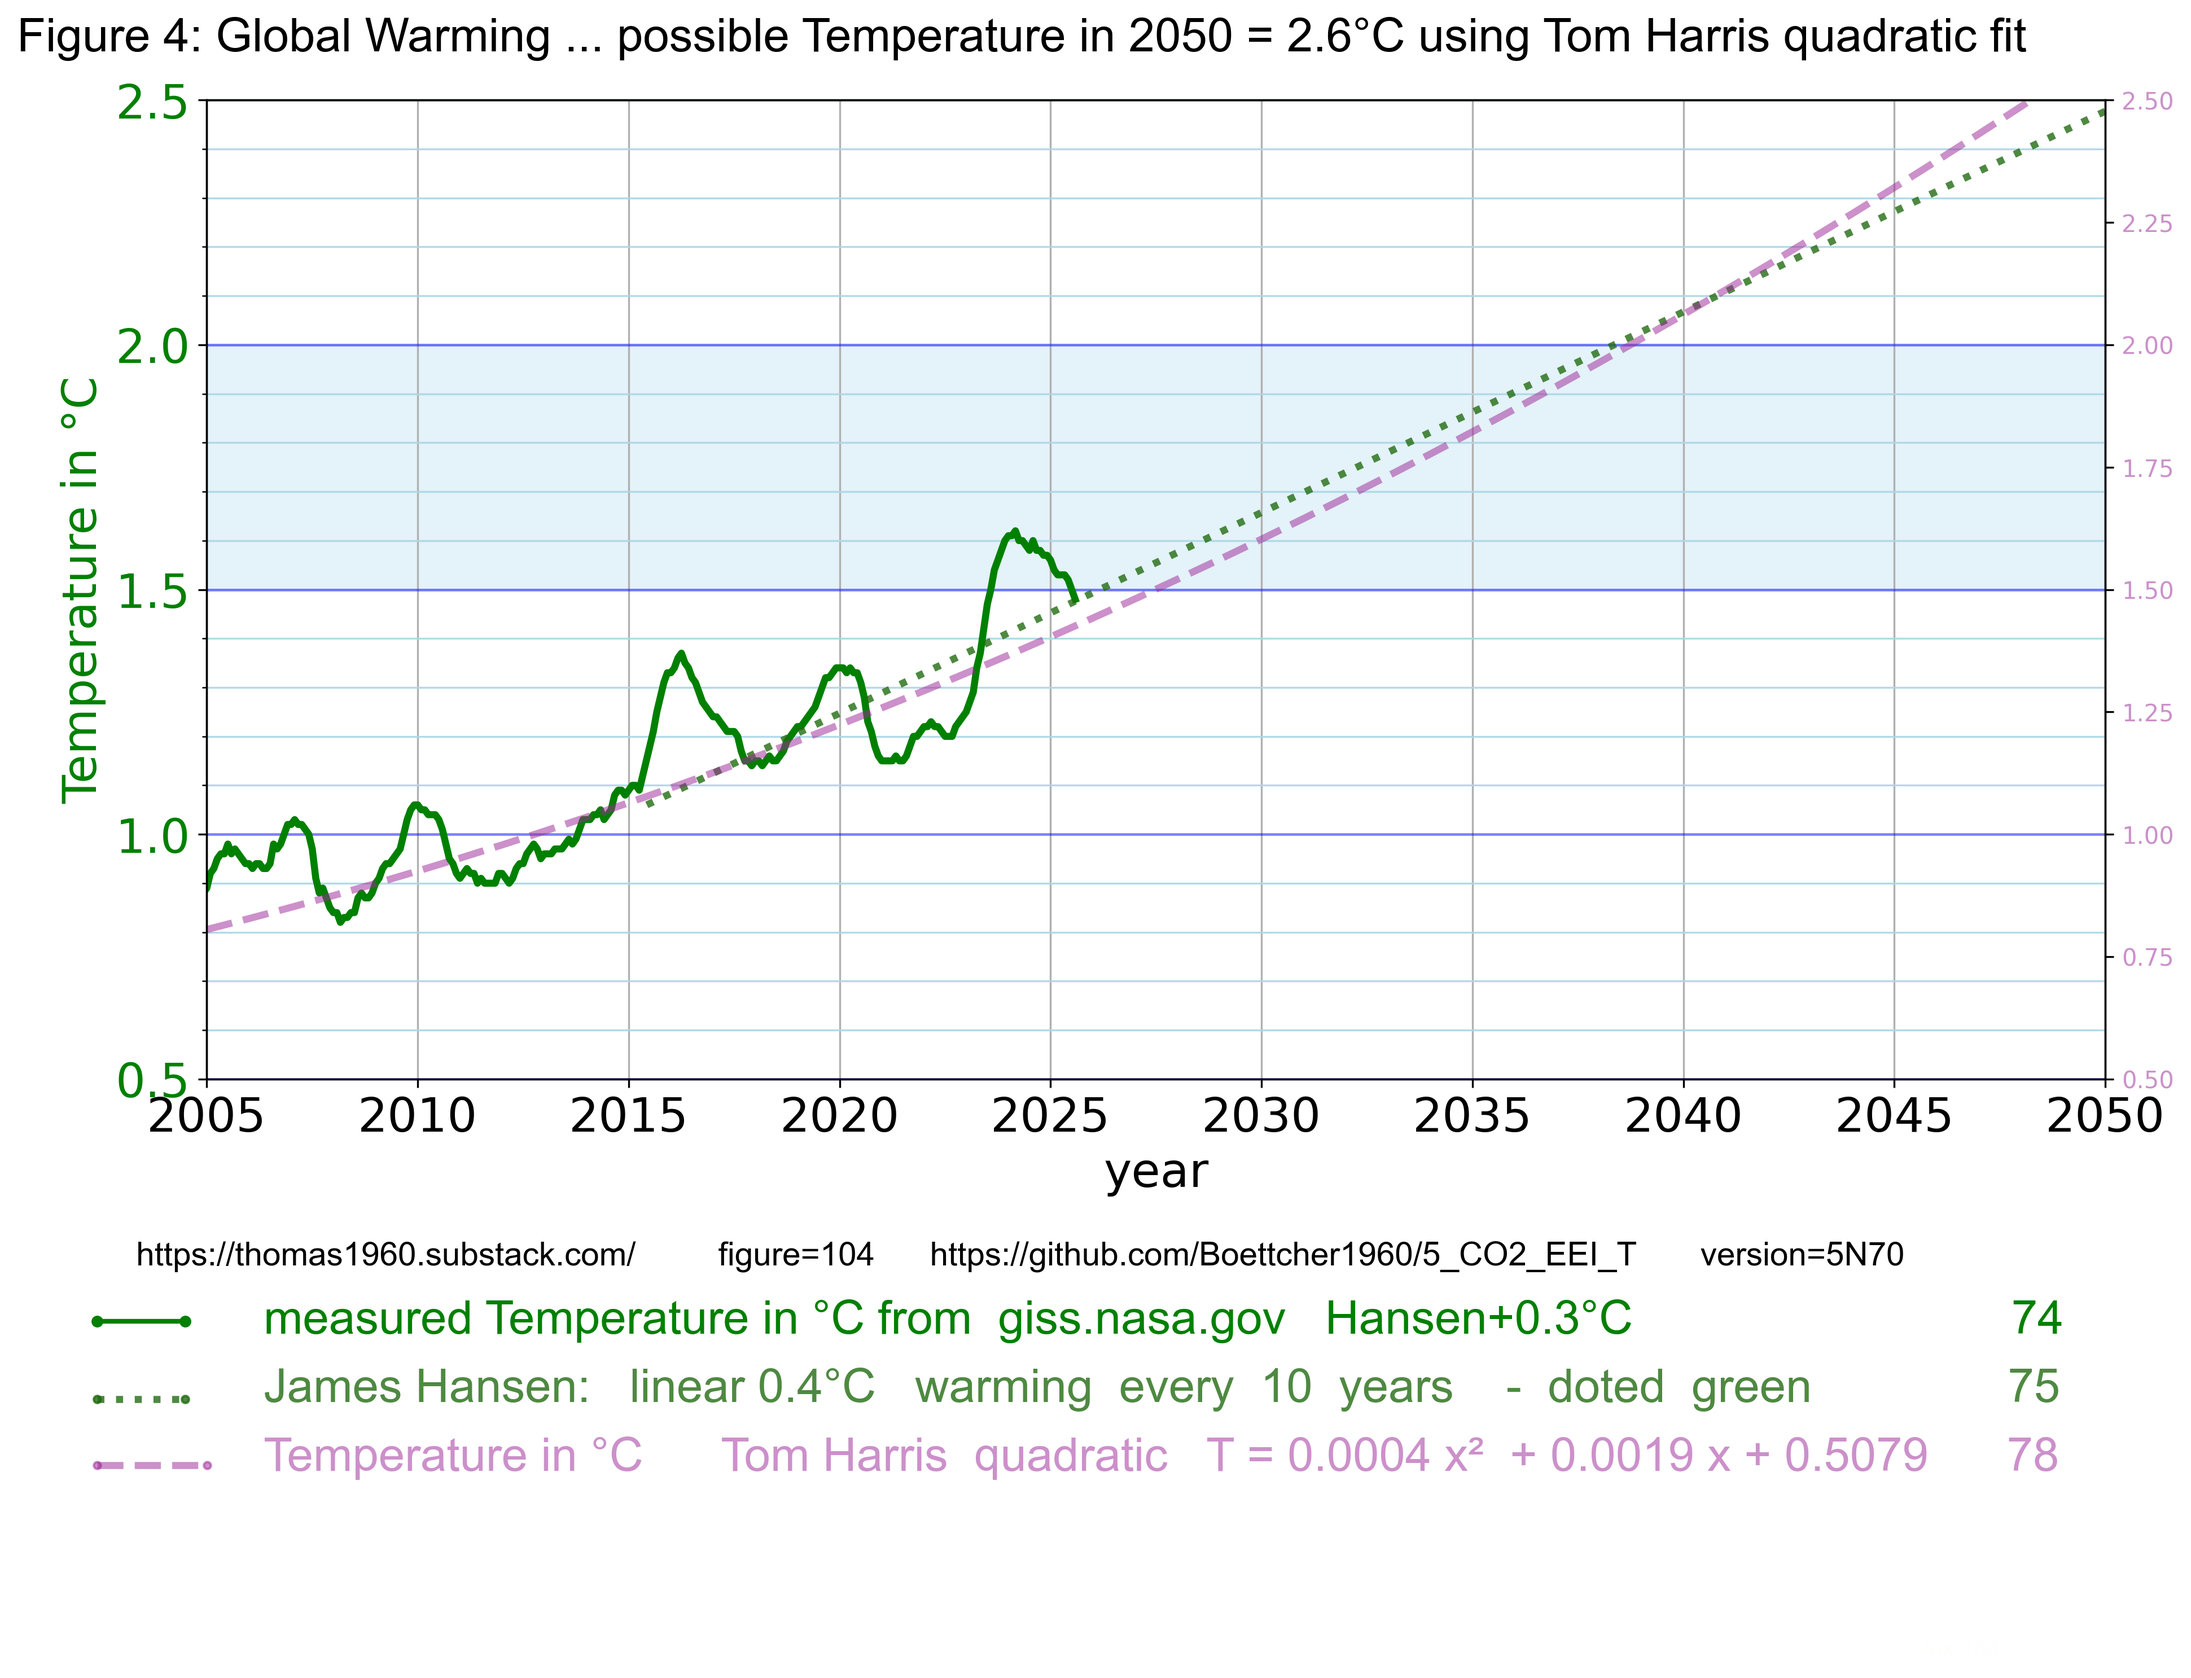
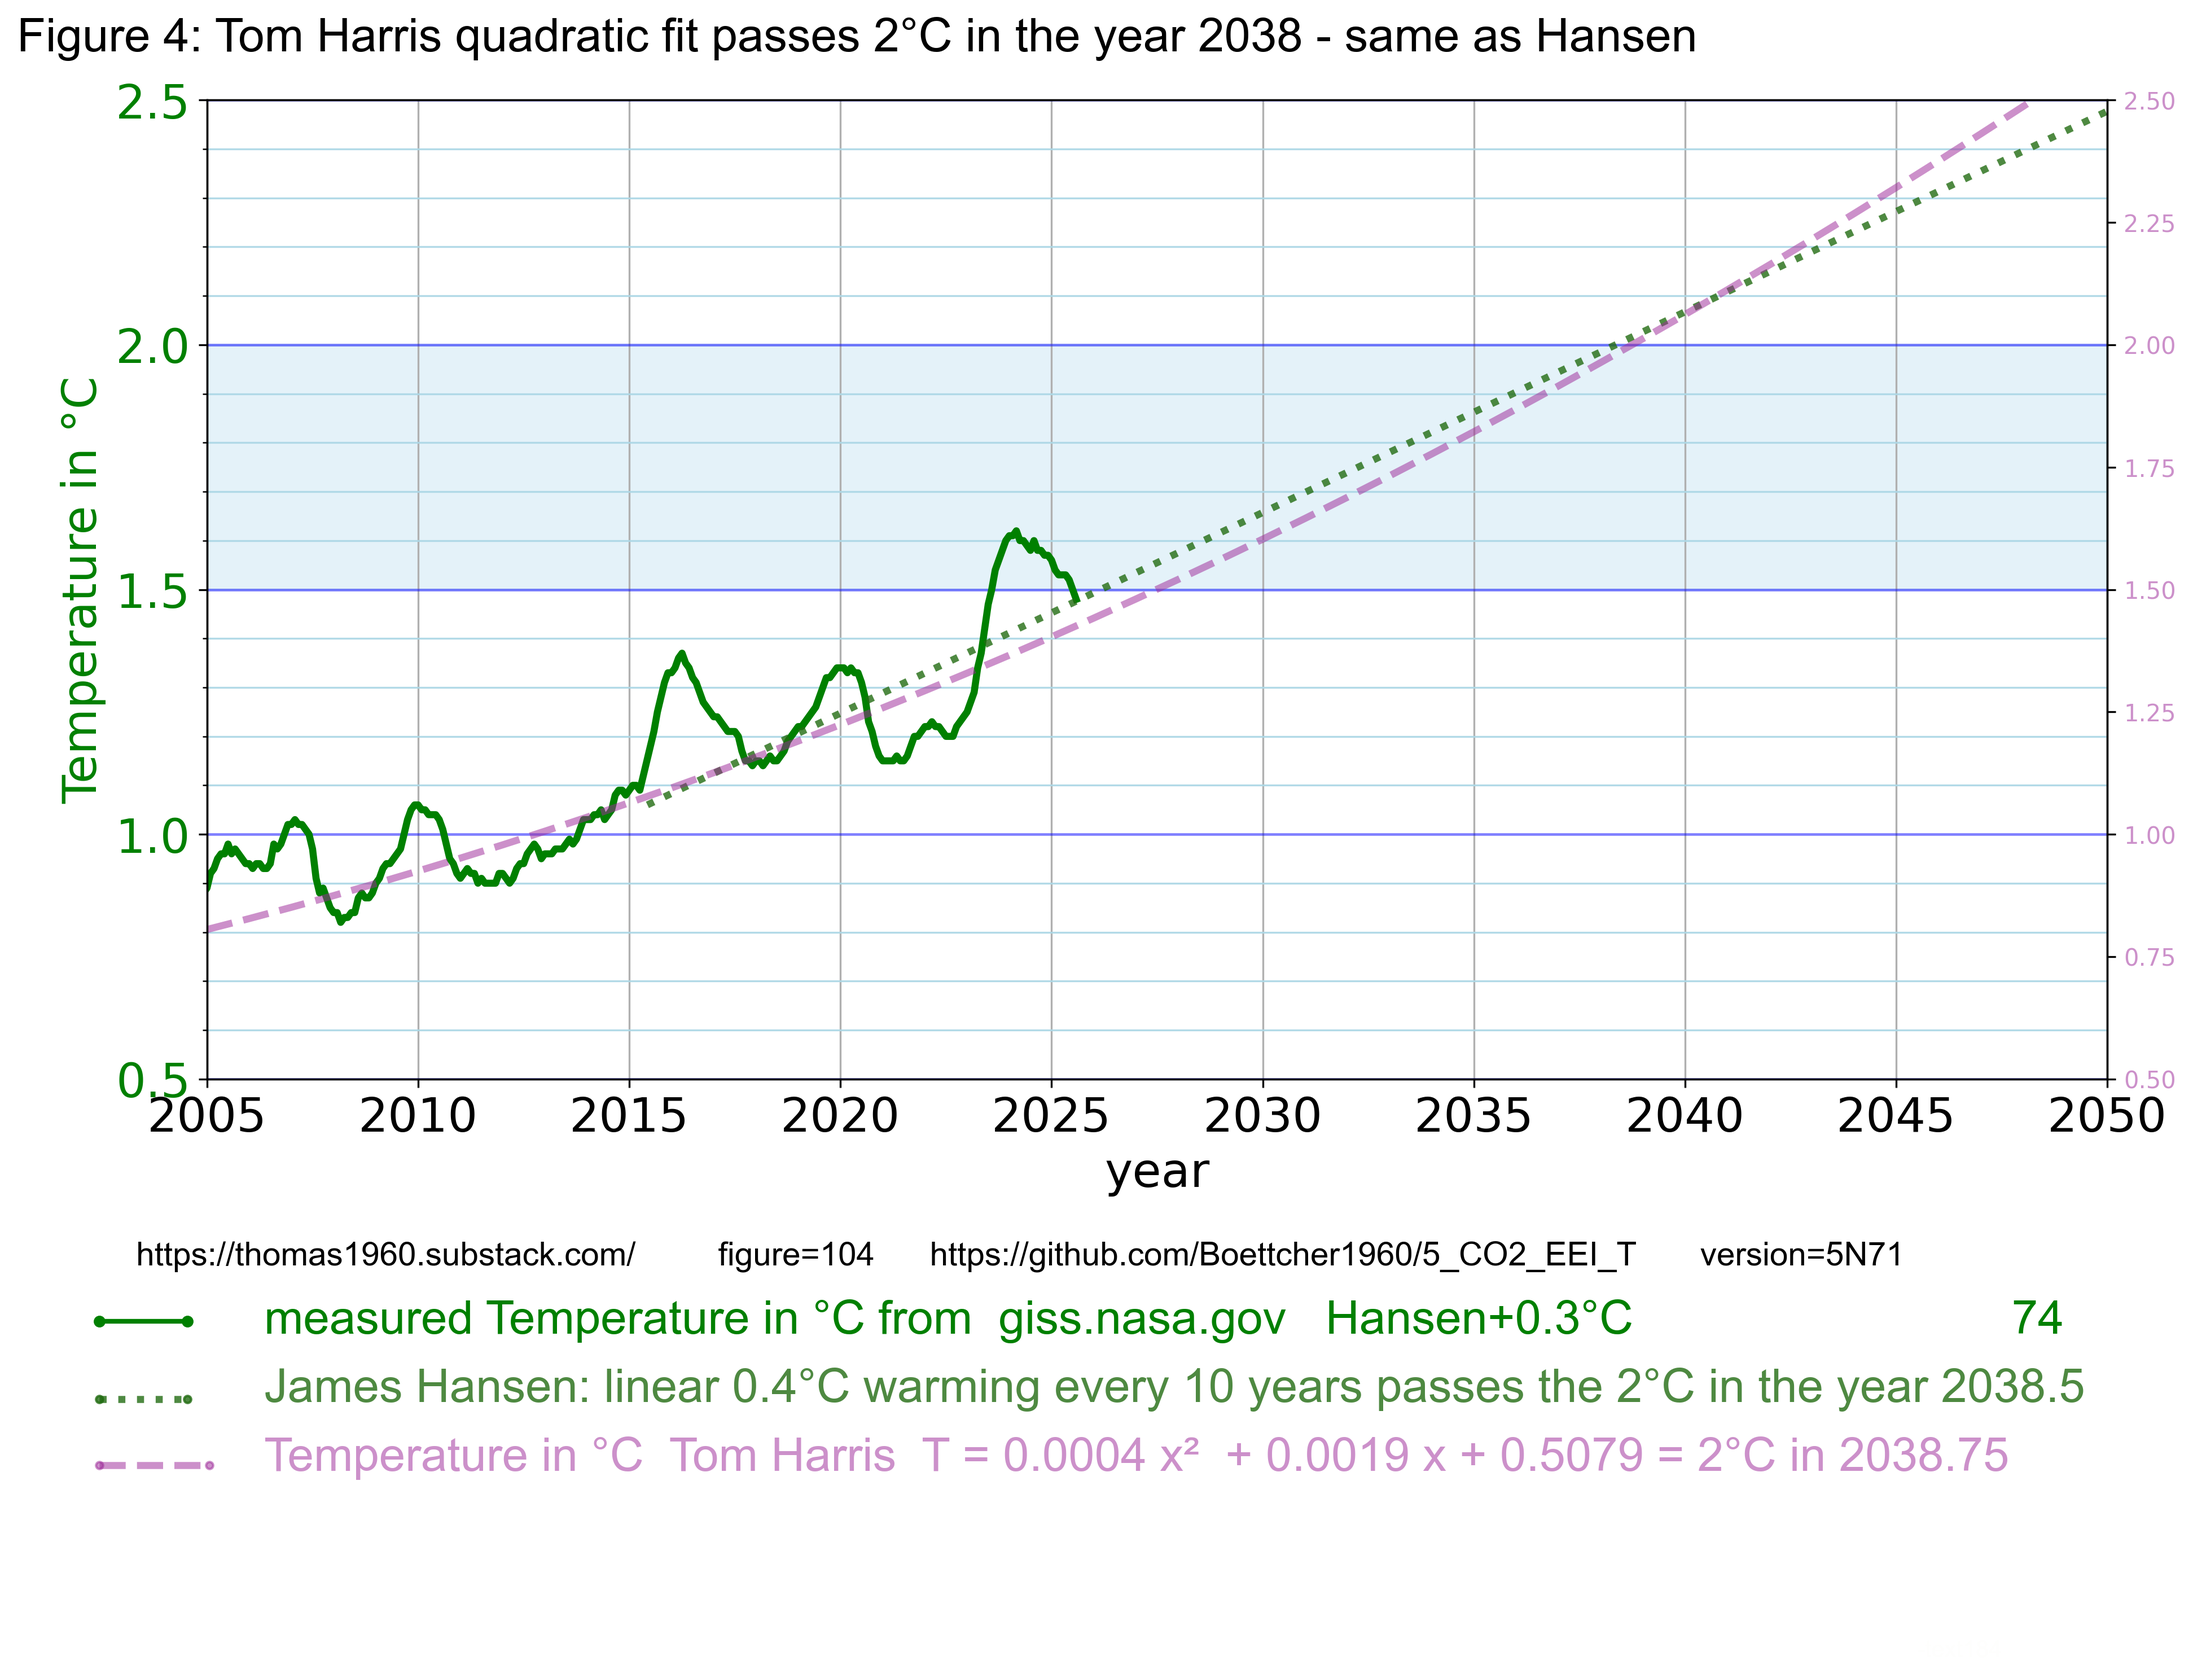
5N71" # James Hansen: linear 0.4°C warming every 10 years passe

Changed region(s): [[0.2805, 0.7427, 0.9663, 0.8974], [0.0935, 0.0, 0.9351, 0.0309], [0.7792, 0.7427, 0.8727, 0.7736]]

diff --git a/config.py b/config.py
@@ -11,7 +11,7 @@
 
 # 8.3 print the left y axis 
 # line 2 defines the left Y axis. example
-run_10_png = 3 # 5 run 5 figures : 0 = no automatic
+run_10_png = 4 # 5 run 5 figures : 0 = no automatic
 figure100 = 2 #  0 means create no old figure 1= make old figuure
                 # substack #28 uses 102 , 104 , 105 , 106 , 107 , 110 Global Warming EEI sets the World on Fire #28 Published 20. Nov. at 21:18
                 #  0 means create no old figure 1= make old figuure
@@ -92,7 +92,7 @@ plot74_GIS_T = 2 # 2, 3,4,5,6,7 =right y axis
 linear_41_75 = 3 # 3 4 5
 plot76_my_T = 0 # 3, 5
 plot_T_77 = 0 # 3, 4
-plot_T_78 = 0 # 3 , 4 , 5 Tom Harris
+plot_T_78 = 4 # 3 , 4 , 5 Tom Harris
 
 # variable to show play variable in line 4
 line2_play = 0  # 60 61  62
@@ -293,8 +293,8 @@ y_76min = 0 #  Temperature
 y_76max = 4   #  Temperature 
 y_77min = 0 #  Temperature  
 y_77max = 2.5 #  Temperature 
-y_78min = 0.5 #  for Tom Harris Temperature 
-y_78max = 2.5 #  for Tom Harris Temperature
+y_78min = 1.9 #  for Tom Harris Temperature 
+y_78max = 2.1 #  for Tom Harris Temperature
 
 # YLO, YHI = 5, 40
 x_303min = 200   # 125  figure303 CO2 x axis 
@@ -309,8 +309,8 @@ cbox304Ma="#ffcccc"
 cbox304Maedge="red"
 plot304_450ppm_blue_band = 0 # 0 , 1 = plot
 
-x_anf = 2005   # 2005   2000
-x_end = 2045   # 2028   2065
+x_anf = 2038   # 2005   2000
+x_end = 2040   # 2028   2065
 
 # XLO, XHI = 125, 1500
 
@@ -823,10 +823,10 @@ def apply_figure100_settings(figure_id):
        })
    elif figure_id == 104:
        shared_settings.update({
-           "text100": "Figure 4: Global Warming ... possible Temperature in 2050 = 2.6°C using Tom Harris quadratic fit",
-           "text75": "James Hansen:   linear 0.4°C   warming  every  10  years    -  doted  green               75",
+           "text100": "Figure 4: Tom Harris quadratic fit passes 2°C in the year 2038 - same as Hansen ",
+           "text75": "James Hansen: linear 0.4°C warming every 10 years passes the 2°C in the year 2038.5",
            "plot_T_78": 4,
-           "text78": "Temperature in °C      Tom Harris  quadratic   T = 0.0004 x²  + 0.0019 x + 0.5079      78",
+           "text78": "Temperature in °C  Tom Harris  T = 0.0004 x²  + 0.0019 x + 0.5079 = 2°C in 2038.75",
            "y_78min": 0.5,
            "y_78max": 2.5,
            "line4_play": 0,

diff --git a/main.py b/main.py
@@ -1,5 +1,5 @@
 # main.py
-v = "5N70" # James Hansen: linear 0.4°C warming every 10 years passes the 2°C in the year 2038.5", # col 115
+v = "5N71" # James Hansen: linear 0.4°C warming every 10 years passes the 2°C in the year 2038.5", # col 115
 #
 #
 # https://github.com/Boettcher1960/5_CO2_EEI_T
@@ -169,14 +169,21 @@ def load_plot_data():
     # end load_plot_data():
 
 
-def save_png1(fig, header_parameter):
+def save_png1(fig):
     """Save the current Figure 100 variant under its numbered PNG filename."""
     output_dir = os.path.join(os.path.dirname(__file__), "png")
     os.makedirs(output_dir, exist_ok=True)
     path = os.path.join(output_dir, f"figure{figure100}_EEI_T.png")
     fig.savefig(path, dpi=300, bbox_inches="tight")
     if print_debug > 9:
-        print(f"main: saved figure {figure100} to {path}")
+        print(f"main_179: saved figure {figure100} to {path}")
+
+def save_png5(fig):
+    filename = "figure_5_EEI"
+    path2 = f"/Users/thomasboettcher/Desktop/{filename}"
+    fig.savefig(path2, dpi=300, bbox_inches="tight")
+    if print_debug > 9:
+        print(f"main_186: saved figure_5 to {path2}")
 
 
 def main_figure_1():  # make one figure only
@@ -258,7 +265,8 @@ def main_figure_1():  # make one figure only
     plt.show()
     
     # Save plot
-    save_png1(fig, header_parameter)
+    save_png1(fig)
+    save_png5(fig)
 
     # Close figure
     plt.close(fig)
@@ -286,10 +294,15 @@ def main():
     global figure100
 
     # process 5 figure ibn one run:  figure102....figure110 
-    if run_10_png > 0:
+    if run_10_png > 10:
         for figure_id in (102, 104, 105, 106, 110):
             apply_figure100_settings(figure_id)
             main_figure_1()
+    elif run_10_png == 4:
+        figure_id = 104
+        apply_figure100_settings(figure_id)
+        main_figure_1()
+
 
     if figure100 > 0:    # one figure 100
         main_figure_1()
